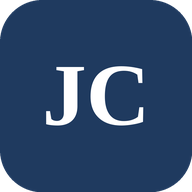
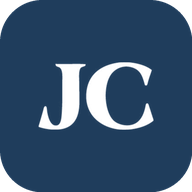
Add files via upload

Changed region(s): [[0.1875, 0.3125, 0.8125, 0.6875]]

diff --git a/index.html b/index.html
@@ -4,7 +4,10 @@
 <meta charset="utf-8">
 <title>Robot 3C</title>
 <meta name="viewport" content="width=device-width, initial-scale=1, viewport-fit=cover">
-<meta name="theme-color" content="#1F3A5F">
+<meta name="theme-color" content="#1f3d5c">
+<link rel="preconnect" href="https://fonts.googleapis.com">
+<link rel="preconnect" href="https://fonts.gstatic.com" crossorigin>
+<link rel="stylesheet" href="https://fonts.googleapis.com/css2?family=Archivo:wght@400;500;600;700;800&display=swap">
 <meta name="mobile-web-app-capable" content="yes">
 <meta name="apple-mobile-web-app-capable" content="yes">
 <meta name="apple-mobile-web-app-status-bar-style" content="black-translucent">
@@ -14,63 +17,81 @@
 <link rel="apple-touch-icon" href="icono-192.png">
 <style>
   :root {
-    --bg: #F3F5F9; --card: #FFFFFF; --ink: #17202E; --muted: #6B7280; --line: #E3E8F0;
-    --brand: #1F3A5F; --brand-ink: #FFFFFF; --accent: #2E6BD8;
-    --ok: #1E7B4F; --ok-bg: #E4F4EC; --warn: #9A5B00; --warn-bg: #FDF1DC;
-    --bad: #B42318; --bad-bg: #FCE8E6; --run: #2E6BD8; --run-bg: #E6EEFC;
-    --shadow: 0 1px 2px rgba(16,24,40,.06), 0 1px 3px rgba(16,24,40,.08);
+    /* mismos valores que estilo_informes.py (el estándar de los informes) */
+    --bg: #eef3f9; --card: #ffffff; --card-2: #e4edf6;
+    --ink: #182430; --muted: #51667a; --tenue: #8ea0b3;
+    --line: rgba(24,36,48,.10); --line-fuerte: rgba(24,36,48,.18);
+    --brand: #1f3d5c; --brand-ink: #f3f8fd; --brand-label: #a9c4e0;
+    --accent: #33587e; --accent-claro: #5b93c9;
+    --ok: #0a7d0a; --ok-bg: #e3f4e0;
+    --bad: #c23a3a; --bad-bg: #fbe4e1;
+    --warn: #5b7699; --warn-bg: #dde7f0;
+    --run: #33587e; --run-bg: #e4edf6;
+    --shadow: 0 1px 2px rgba(24,36,48,.06), 0 1px 3px rgba(24,36,48,.08);
   }
   @media (prefers-color-scheme: dark) {
     :root {
-      --bg: #0F141B; --card: #18202B; --ink: #E7ECF3; --muted: #95A1B2; --line: #263142;
-      --brand: #16263C; --brand-ink: #E7ECF3; --accent: #6F9CF0;
-      --ok: #5CC593; --ok-bg: #12301F; --warn: #F0B45A; --warn-bg: #33270F;
-      --bad: #F08A80; --bad-bg: #3A1714; --run: #7FA6F2; --run-bg: #16264A;
+      --bg: #0e1620; --card: #16222f; --card-2: #1d2d3f;
+      --ink: #e7eef6; --muted: #9fb2c6; --tenue: #7d91a6;
+      --line: rgba(233,240,247,.10); --line-fuerte: rgba(233,240,247,.20);
+      --brand: #16293d; --brand-ink: #f3f8fd; --brand-label: #a9c4e0;
+      --accent: #8fc6dc; --accent-claro: #5b93c9;
+      --ok: #7ec47e; --ok-bg: #143018;
+      --bad: #e8938d; --bad-bg: #3a1a18;
+      --warn: #a9c4e0; --warn-bg: #1f3148;
+      --run: #8fc6dc; --run-bg: #1d2d3f;
       --shadow: none;
     }
   }
   * { box-sizing: border-box; -webkit-tap-highlight-color: transparent; }
   html, body { margin: 0; background: var(--bg); color: var(--ink);
-    font: 15px/1.4 -apple-system, BlinkMacSystemFont, "Segoe UI", Roboto, "Helvetica Neue", Arial, sans-serif; }
+    font: 15px/1.45 "Archivo", system-ui, -apple-system, "Segoe UI", Roboto, sans-serif; }
+  .num { font-variant-numeric: tabular-nums; }
   button { font: inherit; color: inherit; }
   header { position: sticky; top: 0; z-index: 5; background: var(--brand); color: var(--brand-ink);
     padding: calc(env(safe-area-inset-top) + 12px) 16px 12px; display: flex; align-items: center; gap: 10px; }
-  header h1 { font-size: 17px; margin: 0; font-weight: 650; flex: 1; letter-spacing: .2px; }
-  .hola { font-size: 12px; opacity: .75; font-weight: 400; display: block; }
-  .estado { font-size: 12px; padding: 5px 10px; border-radius: 99px; background: rgba(255,255,255,.12);
-    display: flex; align-items: center; gap: 6px; white-space: nowrap; cursor: pointer; }
-  .punto { width: 8px; height: 8px; border-radius: 50%; background: #9AA4B2; }
-  .estado.on .punto { background: #4ADE80; box-shadow: 0 0 0 3px rgba(74,222,128,.25); }
-  .estado.off .punto { background: #F87171; }
+  header .marca { display: flex; align-items: center; gap: 11px; flex: 1; min-width: 0; }
+  header .logo { height: 24px; width: auto; display: block; flex: none; }
+  header h1 { font-size: 11.5px; margin: 0; font-weight: 800; letter-spacing: .08em;
+    text-transform: uppercase; color: var(--brand-label); line-height: 1.2; }
+  .hola { font-size: 14.5px; opacity: 1; font-weight: 600; display: block; letter-spacing: -.01em;
+    text-transform: none; color: var(--brand-ink); white-space: nowrap; overflow: hidden; text-overflow: ellipsis; }
+  .estado { font-size: 12px; font-weight: 600; letter-spacing: .03em; padding: 5px 11px;
+    border-radius: 100px; background: rgba(255,255,255,.12); border: 1px solid rgba(255,255,255,.18);
+    display: flex; align-items: center; gap: 6px; white-space: nowrap; cursor: pointer; flex: none; }
+  .punto { width: 6px; height: 6px; border-radius: 50%; background: var(--brand-label); }
+  .estado.on .punto { background: #8fe08f; box-shadow: 0 0 0 3px rgba(143,224,143,.22); }
+  .estado.off .punto { background: #f0a0a0; }
   main { padding: 14px 16px calc(84px + env(safe-area-inset-bottom)); max-width: 760px; margin: 0 auto; }
   .aviso { background: var(--warn-bg); color: var(--warn); border-radius: 12px; padding: 10px 12px;
     font-size: 13.5px; margin-bottom: 12px; display: none; }
-  .rubro { margin: 18px 2px 8px; font-size: 12.5px; font-weight: 650; color: var(--muted);
-    text-transform: uppercase; letter-spacing: .6px; }
+  .rubro { margin: 20px 2px 9px; font-size: 11.5px; font-weight: 800; color: var(--accent-claro);
+    text-transform: uppercase; letter-spacing: .08em; }
   .rubro:first-child { margin-top: 4px; }
   .grilla { display: grid; grid-template-columns: repeat(auto-fill, minmax(150px, 1fr)); gap: 8px; }
-  .inf { background: var(--card); border: 1px solid var(--line); border-radius: 14px; padding: 12px;
+  .inf { background: var(--card); border: 1px solid var(--line); border-radius: 12px; padding: 12px;
     text-align: left; cursor: pointer; box-shadow: var(--shadow); display: flex; gap: 10px; align-items: flex-start;
     min-height: 58px; transition: transform .08s; }
   .inf:active { transform: scale(.98); }
   .inf .ico { font-size: 20px; line-height: 1.2; }
-  .inf .nom { font-weight: 560; font-size: 14px; }
-  .inf.critico { border-color: var(--bad); }
-  .pedido { background: var(--card); border: 1px solid var(--line); border-radius: 14px; padding: 12px 14px;
+  .inf .nom { font-weight: 600; font-size: 14px; }
+  .inf.critico { border-left: 3px solid var(--bad); }
+  .pedido { background: var(--card); border: 1px solid var(--line); border-radius: 12px; padding: 13px 15px;
     margin-bottom: 8px; box-shadow: var(--shadow); }
   .ped-top { display: flex; gap: 8px; align-items: baseline; }
   .ped-nom { font-weight: 600; flex: 1; }
   .ped-sub { color: var(--muted); font-size: 12.5px; margin-top: 2px; }
-  .badge { font-size: 11.5px; font-weight: 600; border-radius: 99px; padding: 3px 9px; white-space: nowrap; }
+  .badge { font-size: 11.5px; font-weight: 600; letter-spacing: .03em; border-radius: 100px;
+    padding: 4px 10px; white-space: nowrap; border: 1px solid var(--line-fuerte); }
   .b-pendiente { background: var(--warn-bg); color: var(--warn); }
   .b-generando { background: var(--run-bg); color: var(--run); }
   .b-listo { background: var(--ok-bg); color: var(--ok); }
   .b-error, .b-cancelado { background: var(--bad-bg); color: var(--bad); }
   .ped-msg { font-size: 13.5px; margin-top: 8px; white-space: pre-wrap; overflow-wrap: anywhere; }
   .ped-acc { display: flex; flex-wrap: wrap; gap: 8px; margin-top: 10px; }
-  .btn { border: 0; border-radius: 10px; padding: 10px 14px; font-weight: 600; cursor: pointer;
+  .btn { border: 0; border-radius: 10px; padding: 10px 14px; font-weight: 600; letter-spacing: .01em; cursor: pointer;
     background: var(--accent); color: #fff; text-decoration: none; display: inline-flex; align-items: center; gap: 6px; }
-  .btn.sec { background: transparent; color: var(--accent); border: 1px solid var(--line); }
+  .btn.sec { background: var(--card); color: var(--accent); border: 1px solid var(--line-fuerte); }
   .btn.peligro { background: var(--bad); color: #fff; }
   .btn:disabled { opacity: .5; }
   .vacio { text-align: center; color: var(--muted); padding: 40px 10px; }
@@ -79,7 +100,9 @@
   nav button { flex: 1; border: 0; background: none; padding: 10px 0 12px; color: var(--muted); font-size: 12px;
     display: flex; flex-direction: column; align-items: center; gap: 2px; cursor: pointer; position: relative; }
   nav button .i { font-size: 20px; }
-  nav button.act { color: var(--accent); font-weight: 600; }
+  nav button.act { color: var(--accent); font-weight: 700; }
+  nav button span.i { opacity: .85; }
+  nav button.act span.i { opacity: 1; }
   .cont { position: absolute; top: 4px; left: calc(50% + 8px); background: var(--bad); color: #fff; font-size: 10.5px;
     border-radius: 99px; padding: 1px 6px; display: none; }
   .velo { position: fixed; inset: 0; background: rgba(10,15,25,.45); z-index: 9; display: none; }
@@ -98,8 +121,10 @@
   textarea { min-height: 76px; resize: vertical; }
   .fila2 { display: grid; grid-template-columns: 1fr 1fr; gap: 10px; }
   .chips { display: flex; gap: 6px; flex-wrap: wrap; margin-top: 8px; }
-  .chip { border: 1px solid var(--line); background: var(--bg); border-radius: 99px; padding: 6px 12px; font-size: 13px; cursor: pointer; }
-  .lista-cli { border: 1px solid var(--line); border-radius: 10px; margin-top: 6px; max-height: 220px; overflow: auto; display: none; }
+  .chip { border: 1px solid var(--line-fuerte); background: var(--card-2); color: var(--accent);
+    border-radius: 100px; padding: 6px 12px; font-size: 13px; font-weight: 600; cursor: pointer; }
+  .lista-cli { border: 1px solid var(--line-fuerte); background: var(--card); border-radius: 10px;
+    margin-top: 6px; max-height: 220px; overflow: auto; display: none; }
   .lista-cli div { padding: 10px 12px; border-bottom: 1px solid var(--line); cursor: pointer; font-size: 14px; }
   .lista-cli div:last-child { border-bottom: 0; }
   .lista-cli small { color: var(--muted); }
@@ -108,20 +133,22 @@
   .chk { display: flex; align-items: center; gap: 8px; padding: 7px 2px; font-size: 14px; font-weight: 400;
     color: var(--ink); margin: 0; cursor: pointer; }
   .chk input { width: 18px; height: 18px; flex: none; accent-color: var(--accent); }
-  .sub { font-size: 12.5px; color: var(--muted); margin: 14px 0 2px; font-weight: 650;
-    text-transform: uppercase; letter-spacing: .5px; }
+  .sub { font-size: 11.5px; color: var(--accent-claro); margin: 16px 0 2px; font-weight: 800;
+    text-transform: uppercase; letter-spacing: .08em; }
   .acciones { display: flex; gap: 10px; margin-top: 18px; }
   .acciones .btn { flex: 1; justify-content: center; padding: 13px; }
   .toast { position: fixed; left: 50%; bottom: calc(90px + env(safe-area-inset-bottom)); transform: translateX(-50%);
-    background: #17202E; color: #fff; padding: 10px 16px; border-radius: 10px; font-size: 14px; z-index: 20;
+    background: var(--brand); color: #fff; padding: 10px 16px; border-radius: 10px; font-size: 14px; z-index: 20;
     display: none; max-width: calc(100% - 32px); }
   /* ingreso */
   #login { position: fixed; inset: 0; background: var(--bg); z-index: 30; display: flex; flex-direction: column;
     align-items: center; justify-content: center; gap: 14px; padding: 24px; text-align: center; }
-  #login .logo { width: 86px; height: 86px; border-radius: 22px; background: var(--brand); color: #fff;
-    display: flex; align-items: center; justify-content: center; font: 700 36px/1 Georgia, "Times New Roman", serif;
-    letter-spacing: 1px; box-shadow: var(--shadow); }
-  #login h2 { margin: 6px 0 0; font-size: 20px; }
+  #login .logo { width: 92px; height: 92px; border-radius: 22px; background: var(--brand);
+    display: flex; align-items: center; justify-content: center; box-shadow: var(--shadow); }
+  #login .logo img { width: 52px; height: auto; display: block; }
+  #login h2 { margin: 6px 0 0; font-size: 12px; font-weight: 800; letter-spacing: .08em;
+    text-transform: uppercase; color: var(--accent-claro); }
+  #login .nombre { margin: 0; font-size: 22px; font-weight: 700; letter-spacing: -.01em; color: var(--muted); }
   #login p { margin: 0; color: var(--muted); font-size: 14px; max-width: 320px; }
   #login .err { color: var(--bad); font-size: 14px; max-width: 340px; min-height: 20px; }
 </style>
@@ -129,8 +156,9 @@
 <body>
 
 <div id="login">
-  <div class="logo">JC</div>
-  <h2>Robot 3C</h2>
+  <div class="logo"><img src="logo-jc-blanco.png" alt="JC"></div>
+  <h2>Informes</h2>
+  <p class="nombre">Robot 3C</p>
   <p>Informes del sistema. Entrá con la cuenta de Google de la empresa.</p>
   <div id="botonGoogle"></div>
   <div class="err" id="loginErr"></div>
@@ -138,7 +166,8 @@
 </div>
 
 <header hidden id="cab">
-  <h1>Robot 3C <span class="hola" id="hola">Cargando…</span></h1>
+  <div class="marca"><img class="logo" src="logo-jc-blanco.png" alt="JC">
+    <div><h1>Robot 3C</h1><span class="hola" id="hola">Cargando…</span></div></div>
   <div class="estado" id="estado" onclick="menuCuenta()"><span class="punto"></span><span id="estadoTxt">…</span></div>
 </header>
 
@@ -166,7 +195,7 @@
 <script>
 var SESION = null;
 var DATA = { informes: [], pedidos: [], robot: {}, usuario: {} };
-var CLIENTES = null, ACTUAL = null, ELEGIDO = null, timer = null, confirmando = false;
+var CLIENTES = null, ACTUAL = null, ELEGIDOS = [], timer = null, confirmando = false;
 var AUTOS = null, USU = null, EDIT = null;
 
 function $(id) { return document.getElementById(id); }
@@ -483,7 +512,7 @@ function guardarArchivo(a) {
 function abrir(clave) {
   var i = DATA.informes.filter(function (x) { return x.clave === clave; })[0];
   if (!i) return;
-  ACTUAL = i; ELEGIDO = null; confirmando = false;
+  ACTUAL = i; ELEGIDOS = []; confirmando = false;
   var hoy = new Date(), ayer = new Date(Date.now() - 86400000), ini = new Date(hoy.getFullYear(), hoy.getMonth(), 1);
   var h = '<h2>' + esc(i.dibujo || '') + ' ' + esc(i.nombre) + '</h2><p class="desc">' + esc(i.desc) + '</p>';
   if (critico(i)) {
@@ -493,8 +522,9 @@ function abrir(clave) {
   }
   var e = i.entrada || 'nada';
   if (e === 'cliente' || e === 'cliente_fechas') {
-    h += '<label>Cliente</label><input id="fCli" placeholder="Nombre o número de cliente" autocomplete="off" oninput="buscarCli()">' +
-         '<div class="lista-cli" id="lCli"></div><div class="elegido" id="eCli"></div>';
+    h += '<label>Clientes</label><input id="fCli" placeholder="Nombre o número; podés sumar varios" ' +
+         'autocomplete="off" oninput="buscarCli()"><div class="lista-cli" id="lCli"></div>' +
+         '<div class="chips" id="eCli"></div>';
   }
   if (e === 'fechas' || e === 'cliente_fechas') {
     var d0 = e === 'fechas' ? ayer : ini, d1 = e === 'fechas' ? ayer : hoy;
@@ -537,7 +567,7 @@ function cargarClientes() {
 }
 function buscarCli() {
   var inp = $('fCli'), l = $('lCli'); if (!inp || !l) return;
-  var q = norm(inp.value).trim(); ELEGIDO = null; $('eCli').style.display = 'none';
+  var q = norm(inp.value).trim();
   if (!q) { l.style.display = 'none'; return; }
   if (!CLIENTES) { l.innerHTML = '<div><small>Cargando clientes…</small></div>'; l.style.display = 'block'; return; }
   var pal = q.split(/\s+/);
@@ -546,21 +576,34 @@ function buscarCli() {
     var n = norm(c[1]); return pal.every(function (p) { return n.indexOf(p) >= 0; });
   }).slice(0, 30);
   l.innerHTML = r.length ? r.map(function (c) {
-    return '<div onclick="elegirCli(\'' + esc(c[0]) + '\')">' + esc(c[1]) + ' <small>N° ' + esc(c[0]) + '</small></div>';
+    var ya = ELEGIDOS.some(function (x) { return x[0] === c[0]; });
+    return '<div onclick="elegirCli(\'' + esc(c[0]) + '\')">' + (ya ? '✓ ' : '') + esc(c[1]) +
+      ' <small>N° ' + esc(c[0]) + '</small></div>';
   }).join('') : '<div><small>No encontré clientes con eso.</small></div>';
   l.style.display = 'block';
 }
 function elegirCli(cod) {
   var c = CLIENTES.filter(function (x) { return x[0] === cod; })[0]; if (!c) return;
-  ELEGIDO = c; $('fCli').value = c[1]; $('lCli').style.display = 'none';
-  var e = $('eCli'); e.textContent = '✓ ' + c[1] + ' (N° ' + c[0] + ')'; e.style.display = 'block';
+  if (!ELEGIDOS.some(function (x) { return x[0] === cod; })) ELEGIDOS.push(c);
+  $('fCli').value = ''; $('lCli').style.display = 'none'; $('fCli').focus();
+  pintarElegidos();
+}
+function sacarCli(cod) {
+  ELEGIDOS = ELEGIDOS.filter(function (x) { return x[0] !== cod; });
+  pintarElegidos();
+}
+function pintarElegidos() {
+  $('eCli').innerHTML = ELEGIDOS.map(function (c) {
+    return '<span class="chip" onclick="sacarCli(\'' + esc(c[0]) + '\')">' + esc(c[1]) +
+      ' <span style="color:var(--muted)">✕</span></span>';
+  }).join('');
 }
 
 function datosDe(i) {
   var e = i.entrada || 'nada', partes = [];
   if (e === 'cliente' || e === 'cliente_fechas') {
-    if (!ELEGIDO) throw new Error('Elegí un cliente de la lista.');
-    partes.push(ELEGIDO[0]);
+    if (!ELEGIDOS.length) throw new Error('Elegí al menos un cliente de la lista.');
+    partes.push(ELEGIDOS.map(function (c) { return c[0]; }).join(','));
   }
   if (e === 'fechas' || e === 'cliente_fechas') {
     var a = $('fDesde').value, b = $('fHasta').value;
@@ -576,8 +619,12 @@ function datosDe(i) {
   return partes.join(' ');
 }
 function etiquetaDatos(i, datos) {
-  if (ELEGIDO && (i.entrada === 'cliente' || i.entrada === 'cliente_fechas'))
-    return datos.replace(ELEGIDO[0], ELEGIDO[1] + ' (' + ELEGIDO[0] + ')');
+  if (ELEGIDOS.length && (i.entrada === 'cliente' || i.entrada === 'cliente_fechas')) {
+    var nombres = ELEGIDOS.length <= 3
+      ? ELEGIDOS.map(function (c) { return c[1]; }).join(', ')
+      : ELEGIDOS.length + ' clientes';
+    return datos.replace(ELEGIDOS.map(function (c) { return c[0]; }).join(','), nombres);
+  }
   return datos;
 }
 

diff --git a/sw.js b/sw.js
@@ -3,8 +3,8 @@
  * Solo guarda la pantalla (HTML, ícono, manifest) para que la app abra sin internet.
  * Los pedidos al servidor NUNCA se guardan: siempre van en vivo.
  */
-var CACHE = 'robot3c-v1';
-var ARCHIVOS = ['./', './index.html', './config.js', './manifest.json', './icono-192.png', './icono-512.png'];
+var CACHE = 'robot3c-v2';
+var ARCHIVOS = ['./', './index.html', './config.js', './manifest.json', './icono-192.png', './icono-512.png', './logo-jc-blanco.png'];
 
 self.addEventListener('install', function (e) {
   e.waitUntil(caches.open(CACHE).then(function (c) { return c.addAll(ARCHIVOS); }).then(function () {
